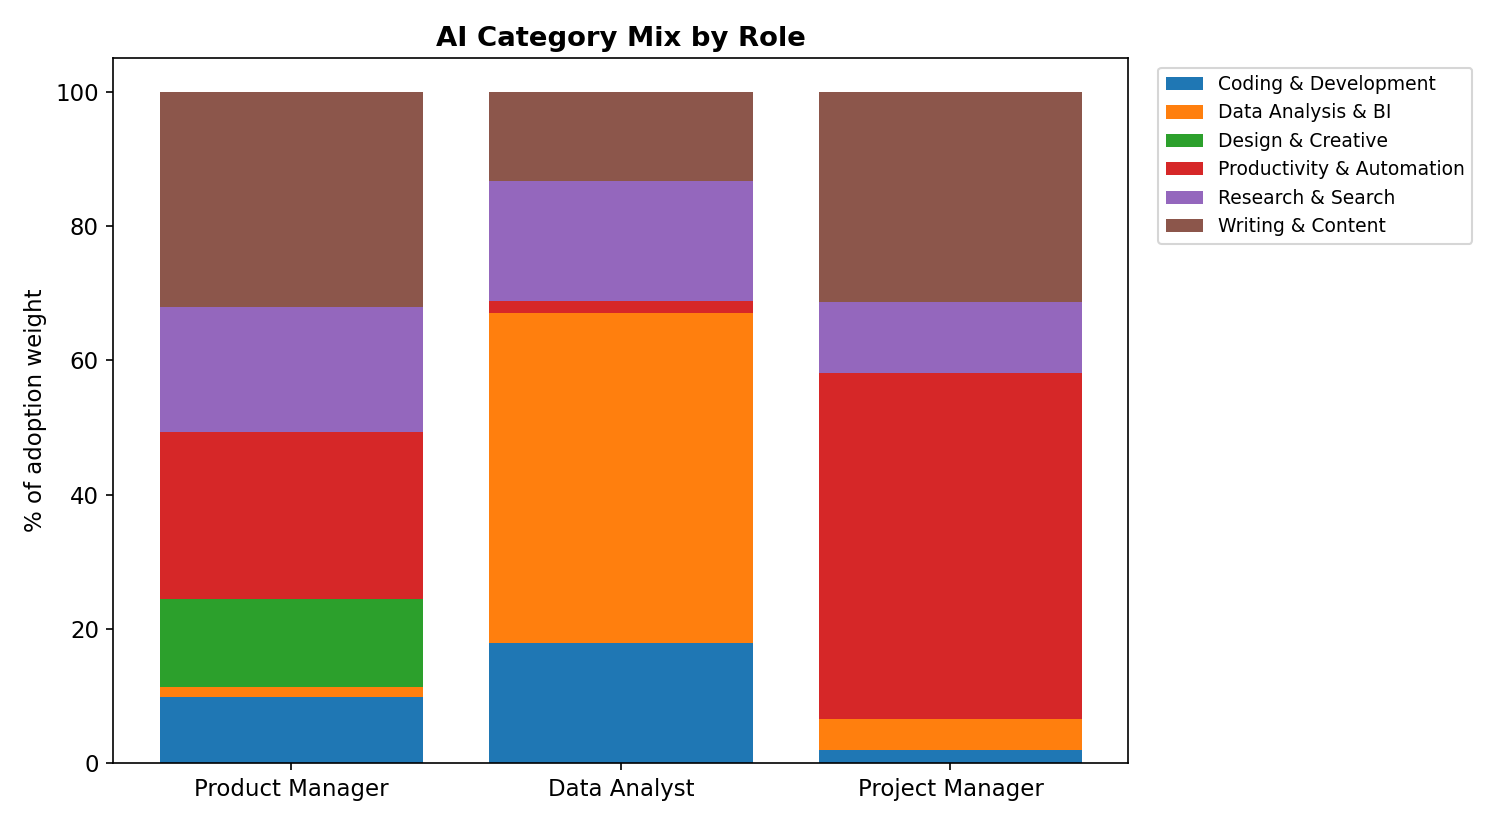
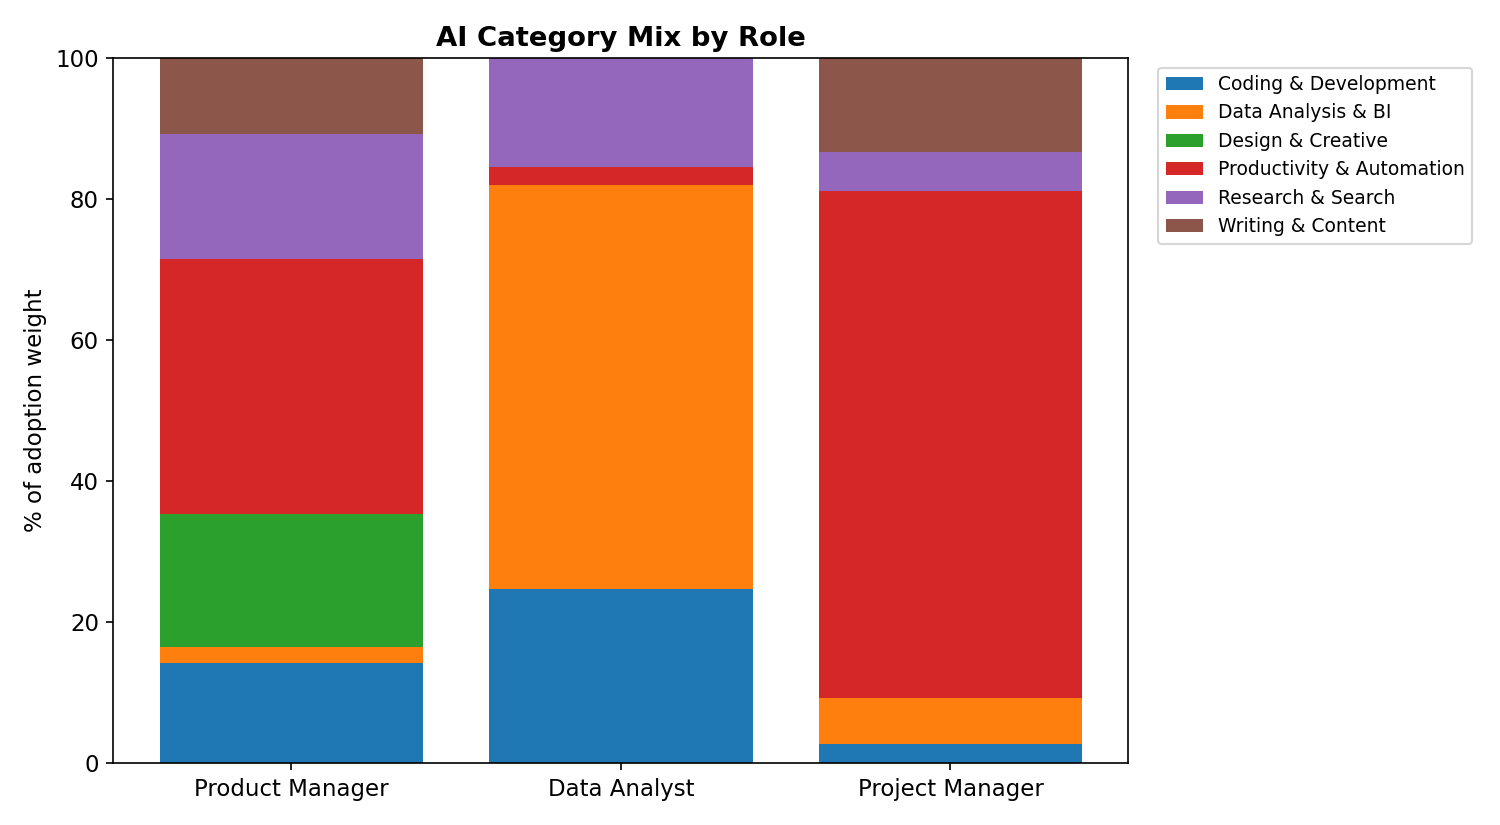
Remove general-purpose chatbots (ChatGPT, Claude, Gemini) from dataset
They topped every role, which is trivial; analysis now focuses on the
next tier of role-differentiating tools. Updated insights, README,
charts, and LinkedIn post accordingly.

diff --git a/insights.md b/insights.md
@@ -2,33 +2,36 @@
 
 Results below are computed with the queries in `sql_queries/analysis_queries.sql` over `data/ai_tools_usage.csv` (SQLite). Adoption scores are estimates synthesized from 2025 industry surveys — see Methodology.
 
-## 1. One universal stack, three specialized stacks
-Six tools are used across all three roles — ChatGPT (53% avg), Microsoft Copilot (38%), Claude (28%), Gemini (23%), Perplexity (21%), GitHub Copilot (18%). Everything else is role-specific.
+> **Data cleaning note:** ChatGPT, Claude, and Google Gemini (the general-purpose chatbots) were removed from the dataset. They ranked top for every role (ChatGPT 48–58, Claude 18–35, Gemini 20–26), which is trivial — everyone uses a general chatbot. The analysis focuses on the next tier: the tools that actually differentiate the roles. Role-specific products built on those models (ChatGPT Advanced Data Analysis, Claude Code, Gemini in Google Sheets) were kept.
+
+## 1. A small universal stack, three specialized stacks
+After removing the general chatbots, only three tools are used across all three roles — Microsoft Copilot (38% avg), Perplexity (21%), GitHub Copilot (18%). Everything else is role-specific.
 
 ## 2. Top 5 per role
 | Rank | Product Manager | Data Analyst | Project Manager |
 |---|---|---|---|
-| 1 | ChatGPT (58) | ChatGPT (52) | ChatGPT (48) |
-| 2 | Claude (35) | Microsoft Copilot (38) | Microsoft Copilot (42) |
-| 3 | Microsoft Copilot (33) | Power BI Copilot (36) | Notion AI (22) |
-| 4 | Perplexity (28) | GitHub Copilot (34) | Grammarly (21) |
-| 5 | Notion AI (26) | Claude (30) | Gemini (20) |
+| 1 | Microsoft Copilot (33) | Microsoft Copilot (38) | Microsoft Copilot (42) |
+| 2 | Perplexity (28) | Power BI Copilot (36) | Notion AI (22) |
+| 3 | Notion AI (26) | GitHub Copilot (34) | Grammarly (21) |
+| 4 | Figma AI (19) | ChatGPT Adv. Data Analysis (29) | Jira AI (19) |
+| 5 | NotebookLM (18) | Perplexity (22) | Otter.ai (16) |
 
-## 3. Each role leans on a different AI category
-- **Data Analysts:** 49% of adoption weight in Data Analysis & BI tools; 18% in coding assistants. They are the only role where code tools (GitHub Copilot, Claude Code, Cursor) matter.
-- **Product Managers:** Writing & Content leads (32%), then Productivity (25%) and Research (19%). The only role with meaningful Design/Prototyping AI usage (Figma AI, v0, Lovable).
-- **Project Managers:** Productivity & Automation dominates (52%) — Copilot in Office, meeting AI (Otter, Fireflies), PM-tool AI (Jira, Asana, Monday, ClickUp).
+## 3. Microsoft Copilot is the real #1 workhorse
+With the general chatbots excluded, Microsoft Copilot tops all three roles (33–42) — AI arrives embedded in Office/Teams rather than as a standalone tool. Consistent with Microsoft's 2025 Copilot Usage Report finding of broad-but-shallow adoption.
 
-## 4. Microsoft Copilot is the project managers' #2
-Project managers show the highest Microsoft Copilot adoption (42) of the three roles — AI arrives embedded in Office/Teams rather than as a standalone tool. Consistent with Microsoft's 2025 Copilot Usage Report finding of broad-but-shallow adoption.
+## 4. Each role leans on a different AI category
+- **Data Analysts:** 57% of adoption weight in Data Analysis & BI tools (Power BI Copilot, Tableau AI, ChatGPT ADA); 25% in coding assistants (GitHub Copilot, Claude Code, Cursor). The only role where code tools matter.
+- **Product Managers:** Productivity leads (36%), then Design & Creative (19%) and Research (18%). The only role with meaningful Design/Prototyping AI usage (Figma AI, v0, Lovable).
+- **Project Managers:** Productivity & Automation dominates (72%) — Copilot in Office, meeting AI (Otter, Fireflies), PM-tool AI (Jira, Asana, Monday, ClickUp).
 
-## 5. Claude is the clear #2 chatbot for product people
-Claude ranks #2 for PMs (35) per Lenny's Newsletter surveys, and #2 among data professionals, driven by analysis and coding use. Among project managers it lags (18).
+## 5. Specialists with narrow moats
+Tools strong in exactly one role: Power BI Copilot, ChatGPT Advanced Data Analysis, Tableau AI, Claude Code, Cursor, Gemini in Google Sheets (analysts); Figma AI, NotebookLM (PMs); Otter.ai, Asana AI (project managers).
 
-## 6. Specialists with narrow moats
-Tools strong in exactly one role: Power BI Copilot, ChatGPT Advanced Data Analysis, Tableau AI, Claude Code, Cursor (analysts); Figma AI, NotebookLM (PMs); Otter.ai, Asana AI (project managers).
+## 6. GenAI-era tools have caught up
+Tools launched 2023+ now average the same adoption as pre-GenAI incumbents (16.6 vs 16.5) — the new wave closed the gap in under three years.
 
 ## Methodology & caveats
 - `adoption_score` = estimated % of professionals in that role using the tool regularly. Synthesized from: Lenny's Newsletter "What's in your stack" (6,500+ responses, 2025) and AI Productivity Survey (1,750 responses, Dec 2025), Stack Overflow Developer Survey 2025, Microsoft Copilot Usage Report 2025 (37.5M conversations), Anthropic Economic Index, PMI/AI-in-PM Global Survey 2025, Pragmatic Engineer AI Tooling Survey 2026, plus vendor adoption reports.
+- ChatGPT, Claude, and Google Gemini standalone chatbots are excluded (see cleaning note above).
 - Where a survey did not report a role-level number, scores are interpolated from adjacent data — treat them as directional, not exact.
 - Sources per row are in the `mention_source` column.

diff --git a/linkedin_post.md b/linkedin_post.md
@@ -2,19 +2,19 @@
 
 ---
 
-**I analyzed 25+ AI tools across 3 roles — PMs, Data Analysts, and Project Managers. One number surprised me:**
+**I analyzed 25+ AI tools across 3 roles — PMs, Data Analysts, and Project Managers. Then I deleted ChatGPT, Claude, and Gemini from the data.**
 
-Only 6 tools out of 25+ are actually used by all three roles.
+Why? They topped every single role. "Everyone uses a chatbot" is not an insight. The interesting question is what comes next.
 
 I pulled together 2025 survey data (Lenny's Newsletter, Stack Overflow, Microsoft's Copilot Usage Report, PMI) into a structured dataset, ran SQL analysis, and built a Power BI dashboard.
 
 🔍 3 key insights:
 
-1⃣ **ChatGPT is the only universal winner.** #1 for every role, 48–58% adoption. The "universal stack" behind it: Microsoft Copilot, Claude, Gemini, Perplexity, GitHub Copilot.
+1⃣ **Microsoft Copilot is the real workhorse.** With the generic chatbots out, it's #1 for all three roles (33–42% adoption) — AI wins by being embedded in Office/Teams, not by being a destination.
 
-2⃣ **Each role has a completely different AI profile.** Data analysts put ~half their AI usage into BI & coding tools (Power BI Copilot, GitHub Copilot). Product managers lean on writing & research AI (Claude, Perplexity, Notion AI). Project managers? 52% of their AI usage is embedded productivity AI — Copilot in Office, meeting bots, Jira/Asana AI. They barely adopt standalone tools.
+2⃣ **The "universal stack" is tiny: just 3 tools.** Microsoft Copilot, Perplexity, GitHub Copilot. Everything else is role-specific — data analysts put 57% of their AI usage into BI tools (Power BI Copilot, Tableau AI) and 25% into coding assistants; project managers put 72% into embedded productivity AI (meeting bots, Jira/Asana AI).
 
-3⃣ **Claude is the quiet #2 for product people.** Second place among PMs and data professionals — but still far behind among project managers.
+3⃣ **The GenAI wave already caught up.** Tools launched since 2023 now match pre-GenAI incumbents in average adoption — the gap closed in under three years.
 
 📊 Full analysis — dataset (CSV), 7 SQL queries, Power BI dashboard spec, methodology:
 👉 https://github.com/oriyakli1-ui/ai-tools-analysis

diff --git a/README.md b/README.md
@@ -2,16 +2,18 @@
 
 Which AI tools actually matter for **Project Managers**, **Data Analysts**, and **Product Managers** in 2025? This project synthesizes industry surveys and job-market research into a structured dataset, SQL analysis, and a Power BI dashboard.
 
+> **Note:** ChatGPT, Claude, and Google Gemini (general-purpose chatbots) are excluded from the dataset — they topped every role, which is trivial. The analysis covers the next tier of tools that actually differentiate the roles. Role-specific products built on those models (ChatGPT Advanced Data Analysis, Claude Code, Gemini in Google Sheets) are kept.
+
 ## Headline findings
-- **ChatGPT is #1 for all three roles** (48–58% adoption) — the only tool that is universal *and* dominant.
-- **Six tools form a "universal stack"** used by all three roles: ChatGPT, Microsoft Copilot, Claude, Gemini, Perplexity, GitHub Copilot.
-- **Each role has a distinct AI profile:** analysts lean on BI + coding AI (49% + 18% of adoption weight), PMs on writing + research AI, project managers on embedded productivity AI (52%) — Copilot in Office, meeting bots, Jira/Asana AI.
+- **Microsoft Copilot is #1 for all three roles** (33–42% adoption) — AI arrives embedded in Office/Teams.
+- **Only three tools form the "universal stack"** used by all three roles: Microsoft Copilot, Perplexity, GitHub Copilot.
+- **Each role has a distinct AI profile:** analysts lean on BI + coding AI (57% + 25% of adoption weight), PMs on productivity, design and research AI, project managers on embedded productivity AI (72%) — Copilot in Office, meeting bots, Jira/Asana AI.
 
 Full findings: [insights.md](insights.md)
 
 ## Repository structure
 ```
-data/            ai_tools_usage.csv — 55 rows: tool × role × adoption score + source
+data/            ai_tools_usage.csv — 46 rows: tool × role × adoption score + source
 sql_queries/     analysis_queries.sql — 7 queries (top-N, category mix, universal stack, era analysis)
 dashboard/       POWERBI_GUIDE.md — 4-page dashboard spec with DAX measures
                  screenshots/ — rendered charts
